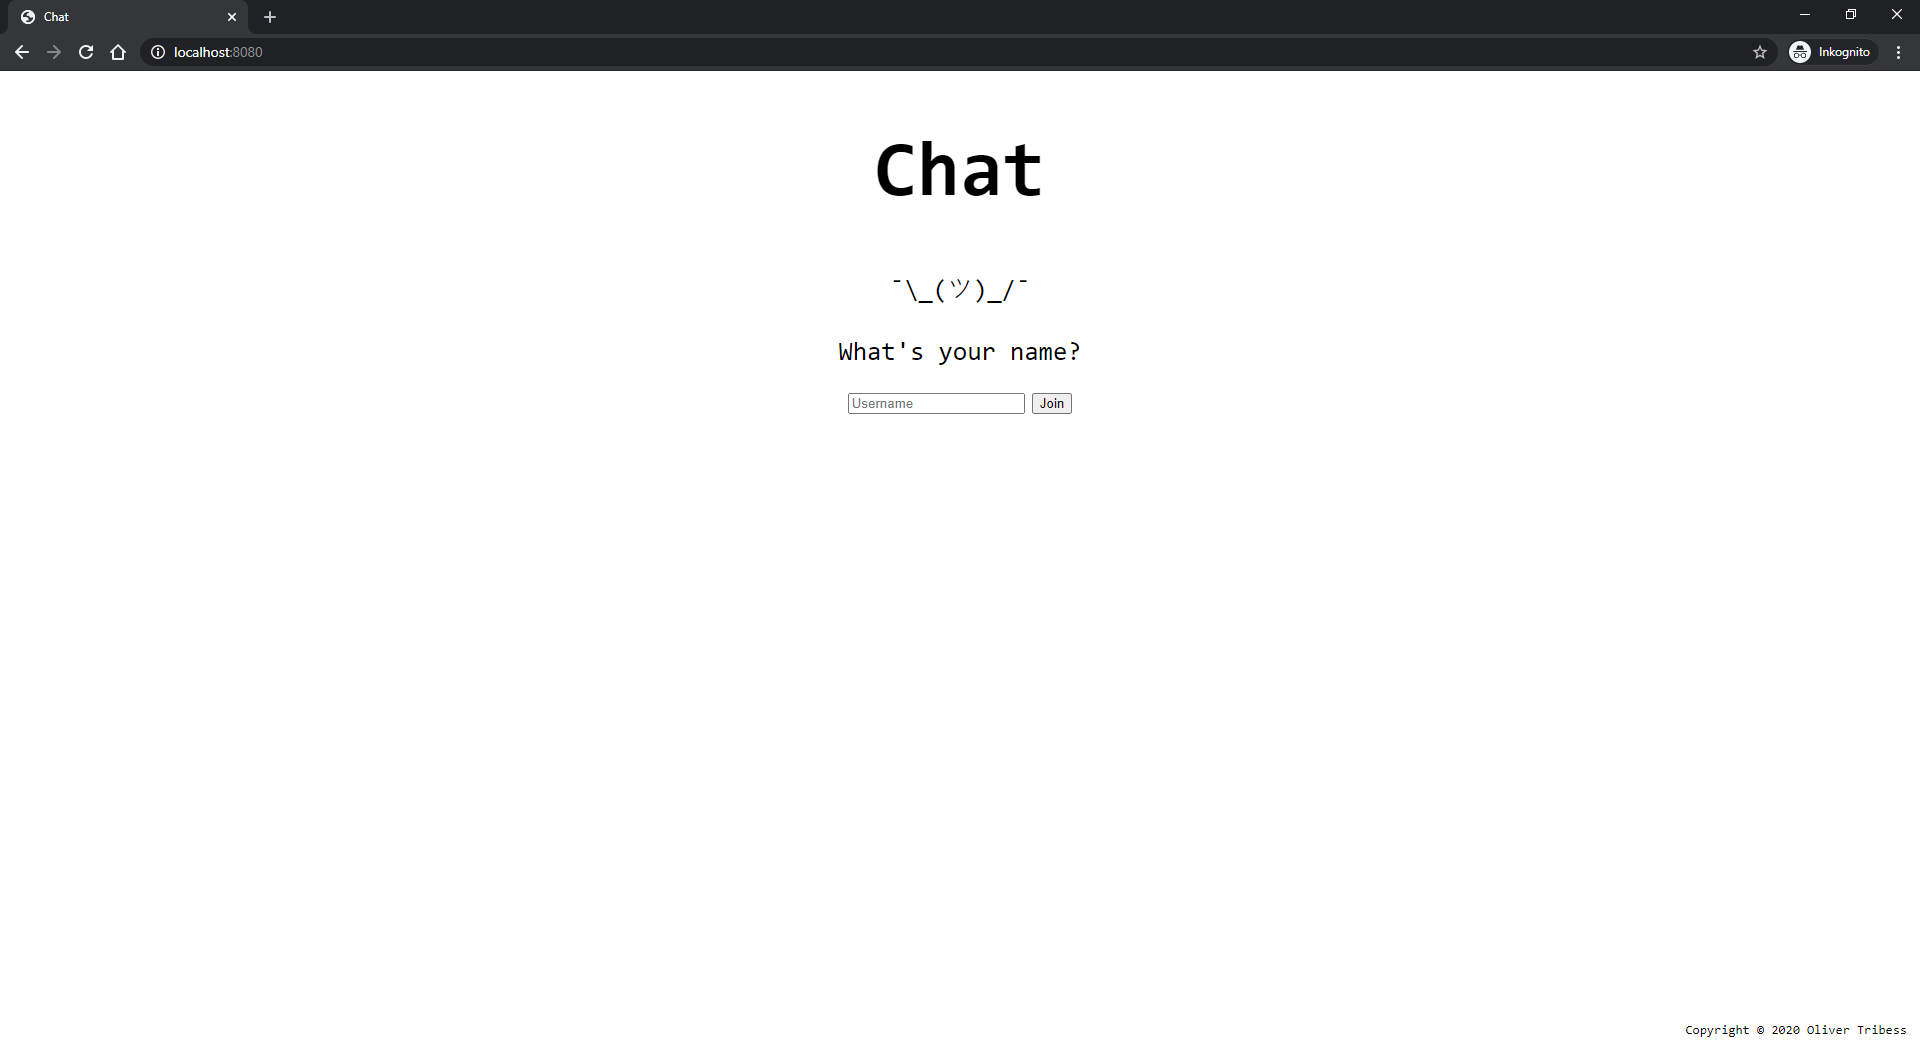
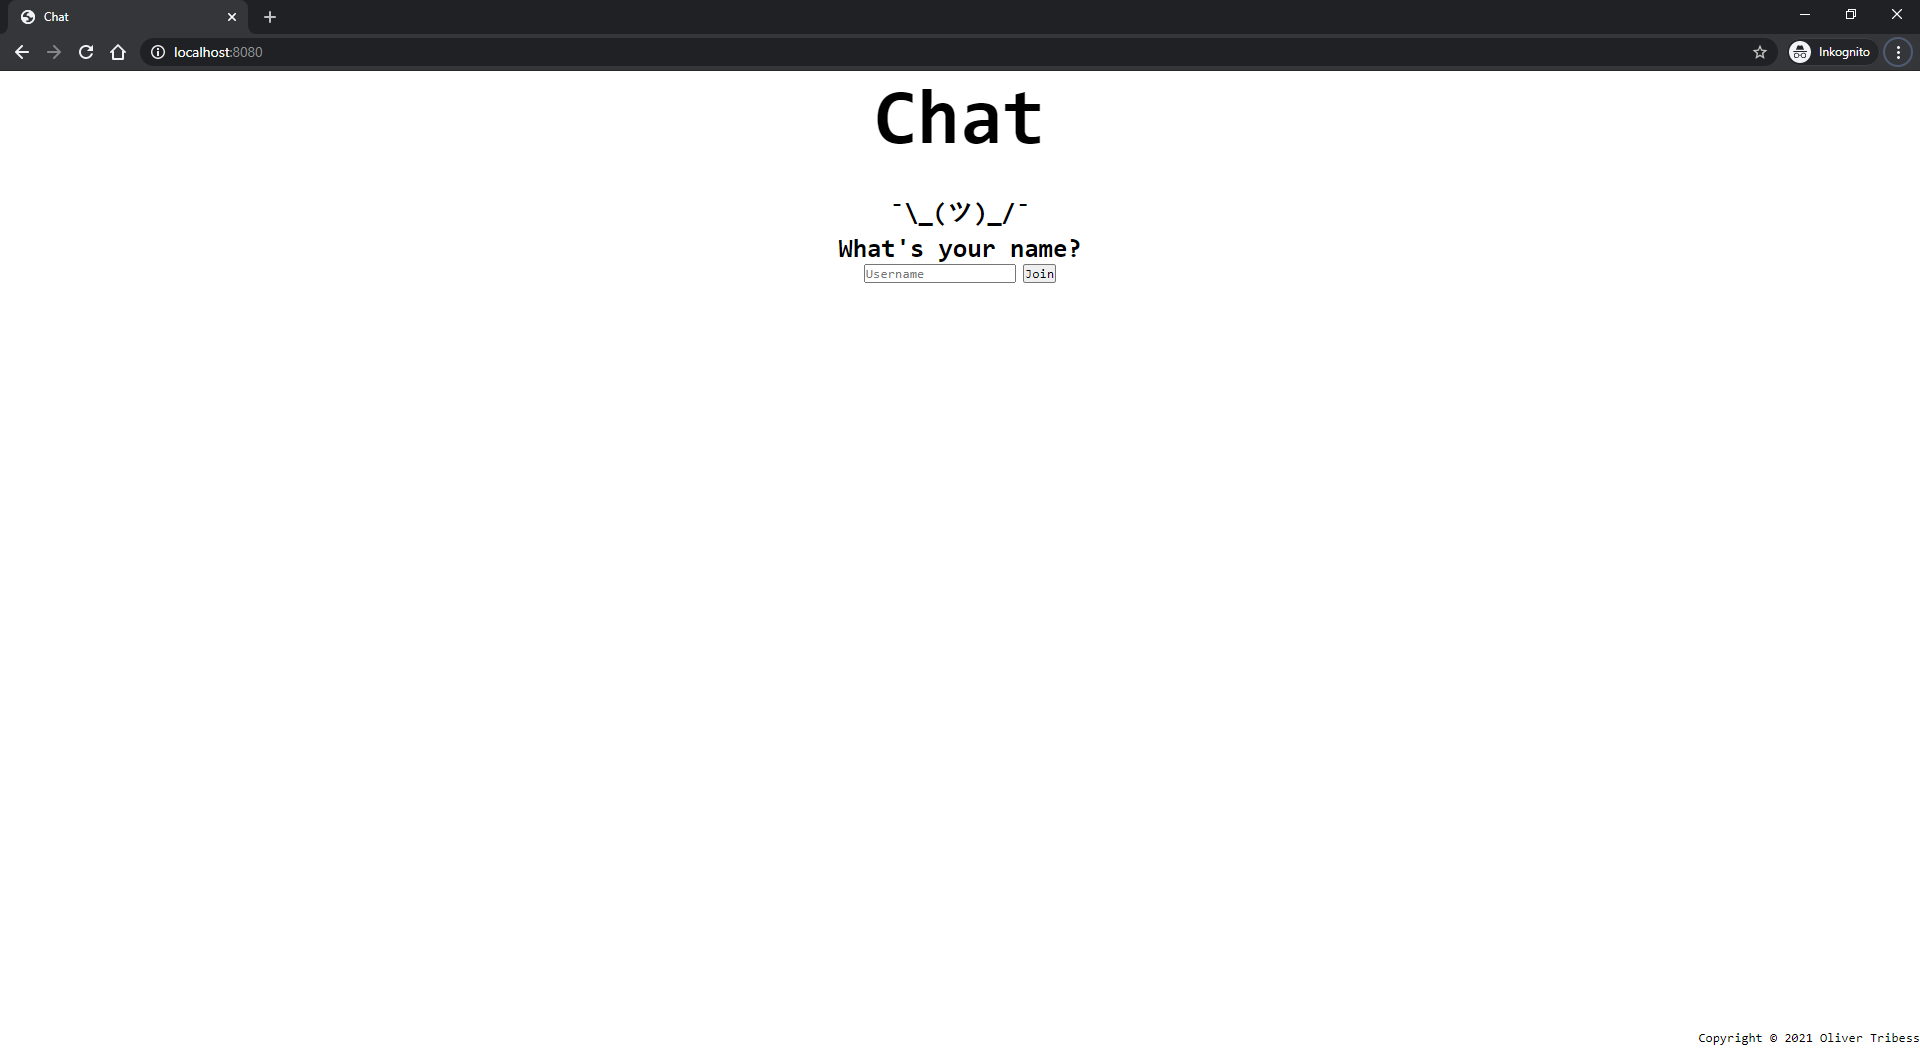
Support participant list and private conversation updated README with extra images

diff --git a/src/main/resources/META-INF/resources/index.html b/src/main/resources/META-INF/resources/index.html
@@ -5,43 +5,83 @@
         <title>Chat</title>
     </head>
     <style>
-        body {
+        * {
+            margin: 0;
+            padding: 0;
             font-family: Monospace;
+        }
+
+        body {
+            min-height: 100vh;
+            display: grid;
+            grid-template-columns: auto;
+            grid-template-rows: 120px auto 20px;
+        }
+
+        header {
+            justify-self: center;
+        }
+        main {
+            justify-self: center;
             text-align: center;
         }
+        footer {
+            justify-self: end;
+        }
+
         header h1 {
             font-size: 6em;
         }
-
-        main p {
+        main h2 {
             font-size: 2em;
         }
-        #logout-form {
-            display:none;
-        }
-        #chat-form {
-            display:none;
-        }
-        #chat-form textarea {
-            width: 75%;
-            height: 20em;
-            overflow: scroll;
-        }
-        #chat-form input {
-            width: 70%;
-        }
-        #chat-form button {
-            width: 4%;
+
+        #logout-form, #chat-form {
+            display: none;
         }
 
-        footer {
-            position: absolute;
-            bottom: 0px;
-            right: 1em;
+        #chat-form {
+            grid-template-columns: 12em auto 5em;
+            gap: 0.5em;
+        }
+        #chat-form textarea {
+            height: 40vh;
+            width: 75vw;
+            overflow: scroll;
+            grid-column-end: span 3;
         }
     </style>
     <script>
+        class Message {
+            constructor(type, timestamp, sender, payload) {
+                this.type = type;
+                this.timestamp = timestamp;
+                this.sender = sender;
+                this.payload = payload;
+            }
+        }
+
+        class ChatMessage {
+            static TYPE = 'CHAT';
+            constructor(receiver, text) {
+                this.receiver = receiver;
+                this.text = text;
+            }
+        }
+
+        class ParticipantMessage {
+            static TYPE = 'PARTICIPANT';
+            static ACTION_JOIN = 'JOIN';
+            static ACTION_LEAVE = 'LEAVE';
+
+            constructor(action, user) {
+                this.action = action;
+                this.user = user;
+            }
+        }
+
         var username;
+
         var clientWebSocket;
 
         var protocol = window.location.protocol === 'https:' ? 'wss://' : 'ws://';
@@ -50,40 +90,74 @@
         var endpoint = 'chat';
         var url = protocol + host + pathname + endpoint;
 
-        function join(){
+        function join() {
             var loginform = document.getElementById('login-form');
             var logoutform = document.getElementById('logout-form');
             var chatform = document.getElementById('chat-form');
-            var welcome = document.getElementById('welcome');
+            var welcomeIcon = document.getElementById('welcome-icon');
+            var welcomeText = document.getElementById('welcome-text');
             loginform.style.display='none';
             logoutform.style.display='block';
-            chatform.style.display='block';
+            chatform.style.display='grid';
             chatform.msg.focus();
             username = loginform.username.value;
-            welcome.innerHTML='Welcome, ' + username;
+            welcomeIcon.innerHTML='(^̮^)';
+            welcomeText.innerHTML='Welcome, ' + username;
             clientWebSocket = new WebSocket(url);
             clientWebSocket.onmessage = function(conn) {
-                var msg = JSON.parse(conn.data);
-                chatform.chat.value += '\n['+ new Date(msg.timestamp).toLocaleString() + '] ' + msg.sender + ': ' + msg.text;
-                chatform.chat.scrollTop = chatform.chat.scrollHeight;
+                handleMsg(JSON.parse(conn.data));
             }
             clientWebSocket.onopen = function() {
-                var msg = { timestamp: Date.now(), sender: username, text: '== Joined ==' };
+                var payload = new ParticipantMessage(ParticipantMessage.ACTION_JOIN, {username:username});
+                var msg = new Message(ParticipantMessage.TYPE, Date.now(), username, JSON.stringify(payload));
                 clientWebSocket.send(JSON.stringify(msg));
             }
         }
 
-        function leave(){
-            var msg = { timestamp: Date.now(), sender: username, text: '== Left ==' };
+        function handleMsg(msg) {
+            var payload = JSON.parse(msg.payload);
+            var chatform = document.getElementById('chat-form');
+            if (msg.type === ChatMessage.TYPE) {
+                chatform.chat.value += '\n['+ new Date(msg.timestamp).toLocaleString() + '] ' + getParticipantName(msg.sender) + ': ' + payload.text;
+            } else if (msg.type === ParticipantMessage.TYPE) {
+                var recipientOptions = '';
+                for (var key in payload.user) {
+                  recipientOptions+='<option value="'+key+'">'+payload.user[key]+'</option>';
+                }
+                if (payload.action === ParticipantMessage.ACTION_JOIN){
+                    document.getElementById('recipient').innerHTML = recipientOptions;
+                    chatform.chat.value += '\n['+ new Date(msg.timestamp).toLocaleString() + '] ' + getParticipantName(msg.sender) + ' has joined the chat';
+                } else if (payload.action === ParticipantMessage.ACTION_LEAVE){
+                    chatform.chat.value += '\n['+ new Date(msg.timestamp).toLocaleString() + '] ' + getParticipantName(msg.sender) + ' has left the chat';
+                    document.getElementById('recipient').innerHTML = recipientOptions;
+                }
+            }
+            chatform.chat.scrollTop = chatform.chat.scrollHeight;
+        }
+
+        function getParticipantName(participantId){
+            var recipient = document.getElementById('recipient');
+            for (var i = 0; i < recipient.length; i++){
+                var option = recipient.options[i];
+                if (option.value === participantId){
+                    return option.text;
+                }
+            }
+        }
+
+        function leave() {
+            var payload = new ParticipantMessage(ParticipantMessage.ACTION_LEAVE, {username:username});
+            var msg = new Message(ParticipantMessage.TYPE, Date.now(), username, JSON.stringify(payload));
             clientWebSocket.send(JSON.stringify(msg));
             clientWebSocket.close();
             location.reload();
         }
         window.onbeforeunload = function(e) { leave(); };
 
-        function sendMsg(){
+        function sendMsg() {
             var chatform = document.getElementById('chat-form');
-            var msg = { timestamp: Date.now(), sender: username, text: chatform.msg.value };
+            var payload = new ChatMessage(chatform.recipient.value, chatform.msg.value);
+            var msg = new Message(ChatMessage.TYPE, Date.now(), username, JSON.stringify(payload));
             clientWebSocket.send(JSON.stringify(msg));
             chatform.msg.value = '';
             chatform.msg.focus();
@@ -94,10 +168,10 @@
         <h1>Chat</h1>
     </header>
     <main>
-        <p>¯\_(ツ)_/¯</p>
-        <p id="welcome">What's your name?</p>
+        <h2 id="welcome-icon">¯\_(ツ)_/¯</h2>
+        <h2 id="welcome-text">What's your name?</h2>
         <form id="login-form" onsubmit="join(); return false;">
-            <input name="username" type="text" placeholder="Username" required autofocus>
+            <input name="username" type="text" placeholder="Username" minlength="3" required autofocus>
             <button type="submit">Join</button>
         </form>
 
@@ -107,11 +181,11 @@
 
         <br><br><br>
         <form id="chat-form" onsubmit="sendMsg(); return false;">
-            <textarea id="chat" readonly></textarea><br>
+            <textarea id="chat" readonly></textarea>
+            <select id="recipient"></select>
             <input name="msg" type="text" placeholder="Message" required>
             <button type="submit">Send</button>
         </form>
-
     </main>
     <footer>
         <p>Copyright © 2021 Oliver Tribess</p>

diff --git a/src/main/kotlin/de/clique/westwood/chat/handler/MessageHandler.kt b/src/main/kotlin/de/clique/westwood/chat/handler/MessageHandler.kt
@@ -1,0 +1,77 @@
+package de.clique.westwood.chat.handler
+
+import de.clique.westwood.chat.model.ChatMessage
+import de.clique.westwood.chat.model.Message
+import de.clique.westwood.chat.model.ParticipantMessage
+import org.springframework.beans.factory.annotation.Value
+import org.springframework.stereotype.Component
+import org.springframework.web.reactive.socket.WebSocketHandler
+import org.springframework.web.reactive.socket.WebSocketSession
+import reactor.core.publisher.Flux
+import reactor.core.publisher.Mono
+import reactor.core.publisher.Sinks
+import java.util.*
+
+@Component
+class MessageHandler(@Value("\${chat.history}") val chatHistory: Int) : WebSocketHandler {
+
+    companion object {
+        const val PUBLIC_CHANNEL_NAME = "All"
+        const val PUBLIC_CHANNEL_KEY = "*"
+    }
+
+    private val participants = hashMapOf(PUBLIC_CHANNEL_KEY to PUBLIC_CHANNEL_NAME)
+    private val receivedMessages = Sinks.many().replay().limit<Message>(chatHistory)
+    private val outgoingMessages: Flux<Message> = receivedMessages.asFlux()
+
+    override fun handle(session: WebSocketSession): Mono<Void> {
+        session.receive()
+            .map {
+                Message.fromJson(it.payloadAsText).apply {
+                    timestamp = Date()
+                    sender = session.id
+                }
+            }
+            .doOnNext {
+                when (it.type) {
+                    ChatMessage.TYPE -> handleChatMessage(it)
+                    ParticipantMessage.TYPE -> handleParticipantMessage(it)
+                }
+            }
+            .subscribe()
+        return session.send(
+            outgoingMessages
+                .filter {
+                    var deliveryAllowed = true
+                    if (it.type == ChatMessage.TYPE) {
+                        val chatMessage = ChatMessage.fromJson(it.payload)
+                        deliveryAllowed = chatMessage.receiver == PUBLIC_CHANNEL_KEY || chatMessage.receiver == session.id || it.sender == session.id
+                    }
+                    deliveryAllowed
+                }
+                .map { session.textMessage(Message.toJson(it)) }
+        )
+    }
+
+    private fun handleChatMessage(message: Message) {
+        val chatMessage = ChatMessage.fromJson(message.payload)
+        println(chatMessage)
+
+        receivedMessages.tryEmitNext(message)
+    }
+
+    private fun handleParticipantMessage(message: Message) {
+        val memberMessage = ParticipantMessage.fromJson(message.payload)
+        println(memberMessage)
+
+        when (memberMessage.action) {
+            ParticipantMessage.Action.JOIN -> participants[message.sender] = memberMessage.user.values.first()
+            ParticipantMessage.Action.LEAVE -> participants.remove(message.sender)
+        }
+
+        val memberUpdateMessage = ParticipantMessage(memberMessage.action, participants.toSortedMap())
+        val updateMessage = Message(message.type, message.timestamp, message.sender, ParticipantMessage.toJson(memberUpdateMessage))
+        receivedMessages.tryEmitNext(updateMessage)
+    }
+
+}

diff --git a/src/main/kotlin/de/clique/westwood/chat/model/ParticipantMessage.kt b/src/main/kotlin/de/clique/westwood/chat/model/ParticipantMessage.kt
@@ -1,0 +1,20 @@
+package de.clique.westwood.chat.model
+
+import com.fasterxml.jackson.annotation.JsonCreator
+import com.fasterxml.jackson.annotation.JsonProperty
+import com.fasterxml.jackson.module.kotlin.jacksonObjectMapper
+import com.fasterxml.jackson.module.kotlin.jacksonTypeRef
+
+data class ParticipantMessage @JsonCreator constructor(
+    @JsonProperty("action") val action: Action,
+    @JsonProperty("user") var user: Map<String,String>,
+)
+{
+    companion object {
+        const val TYPE = "PARTICIPANT"
+        fun toJson(msg: ParticipantMessage): String = jacksonObjectMapper().writeValueAsString(msg)
+        fun fromJson(json: String): ParticipantMessage = jacksonObjectMapper().readValue(json, jacksonTypeRef<ParticipantMessage>())
+    }
+
+    enum class Action {JOIN, LEAVE}
+}

diff --git a/src/main/kotlin/de/clique/westwood/chat/model/Message.kt b/src/main/kotlin/de/clique/westwood/chat/model/Message.kt
@@ -1,0 +1,19 @@
+package de.clique.westwood.chat.model
+
+import com.fasterxml.jackson.annotation.JsonCreator
+import com.fasterxml.jackson.annotation.JsonProperty
+import com.fasterxml.jackson.module.kotlin.jacksonObjectMapper
+import com.fasterxml.jackson.module.kotlin.jacksonTypeRef
+import java.util.*
+
+data class Message @JsonCreator constructor(
+    @JsonProperty("type") val type: String,
+    @JsonProperty("timestamp") var timestamp: Date,
+    @JsonProperty("sender") var sender: String,
+    @JsonProperty("payload") val payload: String
+) {
+    companion object {
+        fun toJson(msg: Message): String = jacksonObjectMapper().writeValueAsString(msg)
+        fun fromJson(json: String): Message = jacksonObjectMapper().readValue(json, jacksonTypeRef<Message>())
+    }
+}

diff --git a/src/main/kotlin/de/clique/westwood/chat/model/ChatMessage.kt b/src/main/kotlin/de/clique/westwood/chat/model/ChatMessage.kt
@@ -1,0 +1,19 @@
+package de.clique.westwood.chat.model
+
+import com.fasterxml.jackson.annotation.JsonCreator
+import com.fasterxml.jackson.annotation.JsonProperty
+import com.fasterxml.jackson.module.kotlin.jacksonObjectMapper
+import com.fasterxml.jackson.module.kotlin.jacksonTypeRef
+import java.util.*
+
+data class ChatMessage @JsonCreator constructor(
+    @JsonProperty("receiver") var receiver: String,
+    @JsonProperty("text") var text: String
+)
+{
+    companion object {
+        const val TYPE = "CHAT"
+        fun toJson(msg: ChatMessage): String = jacksonObjectMapper().writeValueAsString(msg)
+        fun fromJson(json: String): ChatMessage = jacksonObjectMapper().readValue(json, jacksonTypeRef<ChatMessage>())
+    }
+}

diff --git a/src/main/kotlin/de/clique/westwood/chat/config/RoutesConfiguration.kt b/src/main/kotlin/de/clique/westwood/chat/config/RoutesConfiguration.kt
@@ -1,0 +1,12 @@
+package de.clique.westwood.chat.config
+
+import de.clique.westwood.chat.handler.MessageHandler
+import org.springframework.context.annotation.Bean
+import org.springframework.stereotype.Component
+import org.springframework.web.reactive.handler.SimpleUrlHandlerMapping
+
+@Component
+class RoutesConfiguration {
+    @Bean
+    fun routes(messageHandler: MessageHandler) = SimpleUrlHandlerMapping(mapOf("/chat" to messageHandler), 1)
+}

diff --git a/README.md b/README.md
@@ -40,9 +40,11 @@ Navigate to http://localhost:8080.
 
 ![Main Page](screenshot_index.png)
 
+![Main Page](screenshot_game.png)
+
 ### Configuration
 
-Within [src/main/resources/application.properties](application.properties) you can modify settings.
+Within [application.properties](src/main/resources/application.properties) you can modify settings.
 
 ## Running the tests
 
